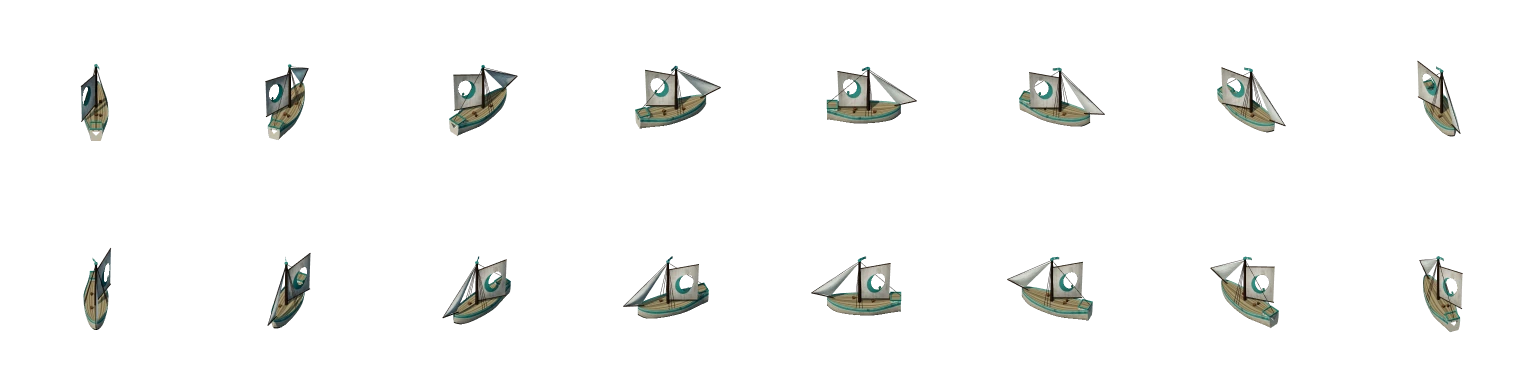
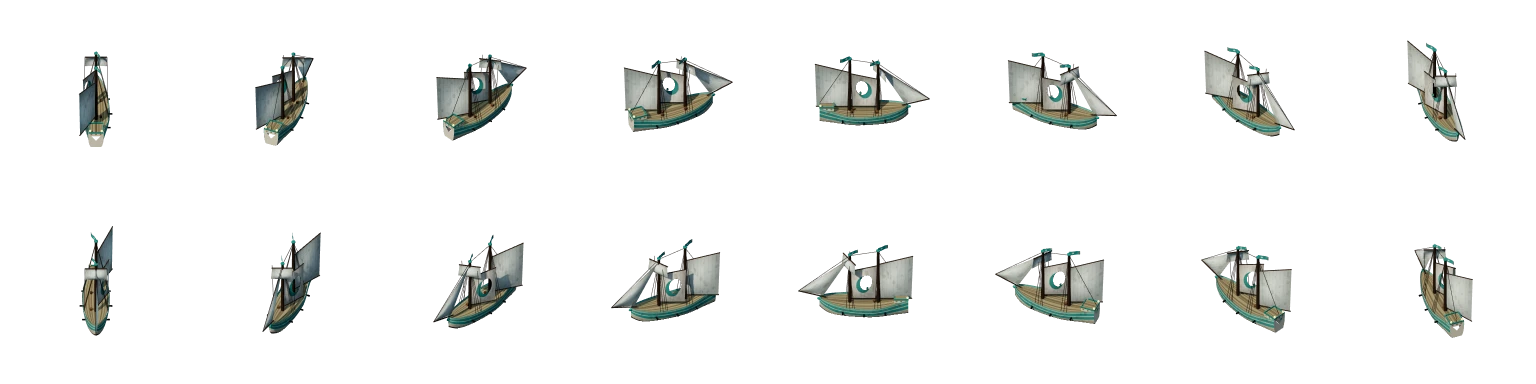
Hafif NPC gemileri uskuna ve karavela olarak yeniden tasarlandı
Sloop tipindeki hafif gemiler iki direkli uskuna, lugger tipindekiler üç
direkli karavela oldu; renkler ve amblemler aynı. 13 gemi sayfası ile portre
atlası yeniden üretildi, kullanılmayan sloop/lugger tipleri ve önizleme işi
kaldırıldı.

Claude-Session: https://claude.ai/code/session_01Mc9BhaSSsCCxzjNzAUDeqJ

diff --git a/tools/asset-studio/catalog.js b/tools/asset-studio/catalog.js
@@ -29,10 +29,6 @@ const F={
 // ---------------------------------------------------------------- Gemi tipleri
 function hullPaint(p,extra={}){return{plank:p.plank,plankDark:p.plankDark,trim:p.trim,tar:p.tar||'#120c09',band:p.band,ports:extra.ports||0,portLid:p.portLid||p.band,portColor:p.portColor||'#140d0a',stripe:extra.stripe?p.band:null};}
 const ARCH={
-  sloop:(p)=>({hull:{L:40,B:13.5,D:8,bowRise:2.6,sternRise:2.8,sternW:.52,bulwark:1,waterline:.72},hp:hullPaint(p,{stripe:true}),
-    masts:[{t:.56,h:30,r:.6,flag:4,gaff:{foot:2.2,throat:24,peak:28,len:16,sail:0,bulge:1.6}}],jib:{sail:1,bulge:1.3,drop:1},bowsprit:9,cargo:3,castles:[{from:0,to:.14,h:1.6,windows:2}],span:104}),
-  lugger:(p)=>({hull:{L:44,B:13,D:8,bowRise:3.2,sternRise:3,sternW:.45,bulwark:1,waterline:.72},hp:hullPaint(p,{stripe:true}),
-    masts:[{t:.66,h:26,r:.6,flag:4,lateen:{len:30,low:5,high:30,sail:0}},{t:.3,h:22,r:.55,flag:0,lateen:{len:24,low:4,high:25,sail:1}}],bowsprit:6,cargo:2,castles:[{from:0,to:.12,h:1.4,windows:2}],span:104}),
   brig:(p)=>({hull:{L:52,B:16.5,D:9.5,bowRise:3,sternRise:4,sternW:.6,bulwark:1.2,waterline:.72},hp:hullPaint(p,{ports:4}),guns:{count:4},
     masts:[{t:.66,h:36,r:.75,flag:5,yards:[{y:33,w:17,drop:12,sail:0,bulge:1.9},{y:20.5,w:20,drop:13,sail:1,bulge:2}]},{t:.33,h:38,r:.8,flag:5,gaff:{foot:2.5,throat:30,peak:35,len:19,sail:2,bulge:1.5}}],
     jib:{sail:2,bulge:1.2,drop:2},bowsprit:11,cargo:4,castles:[{from:0,to:.17,h:2.4,windows:3,lanterns:true}],span:104}),
@@ -80,53 +76,50 @@ function ship(id,arch,p){
 const wood={plank:'#3a2519',plankDark:'#24160f',trim:'#b8904c',band:'#5b2a20'};
 export const SHIPS=[
   // 1 · Zümrüt Sular
-  ship('n1-1-light','sloop',{...wood,sail:'#d8cda6',sail2:'#e2d8b8',emblem:'fish',emblemColor:'#3f6a3a',flag:'#3f6a3a',band:'#3f6a3a',patches:2,patchColors:['#b8a57a','#c9b98e']}),
+  ship('n1-1-light','schooner',{...wood,sail:'#d8cda6',sail2:'#e2d8b8',emblem:'fish',emblemColor:'#3f6a3a',flag:'#3f6a3a',band:'#3f6a3a',patches:2,patchColors:['#b8a57a','#c9b98e']}),
   ship('n1-1-heavy','brig',{...wood,sail:'#d6c9a0',sail2:'#cfc196',stripes:4,stripeColor:'#4f7d4a',emblem:'anchor',emblemColor:'#2e4a2c',flag:'#2e5a36',flagMark:'bar',band:'#35573a',portLid:'#4f7d4a'}),
   // 2 · Mercan
-  ship('n2-1-light','lugger',{...wood,plank:'#4a3024',sail:'#f0b0a0',sail2:'#f4c2b2',emblem:'shell',emblemColor:'#b0453a',flag:'#d0604e',band:'#b0453a'}),
-  ship('n2-2-light','sloop',{...wood,plank:'#e0d8c8',plankDark:'#b8ae9a',trim:'#4fb8b0',band:'#3f9a98',sail:'#f4f2ea',sail2:'#e8f4f2',emblem:'crescent',emblemColor:'#3f9a98',flag:'#3f9a98',flagMark:'dot',flagColor:'#f4f2ea',deck:'#9a8a6a'}),
+  ship('n2-1-light','caravel',{...wood,plank:'#4a3024',sail:'#f0b0a0',sail2:'#f4c2b2',emblem:'shell',emblemColor:'#b0453a',flag:'#d0604e',band:'#b0453a'}),
+  ship('n2-2-light','schooner',{...wood,plank:'#e0d8c8',plankDark:'#b8ae9a',trim:'#4fb8b0',band:'#3f9a98',sail:'#f4f2ea',sail2:'#e8f4f2',emblem:'crescent',emblemColor:'#3f9a98',flag:'#3f9a98',flagMark:'dot',flagColor:'#f4f2ea',deck:'#9a8a6a'}),
   ship('n2-2-heavy','frigate',{plank:'#1f3a3e',plankDark:'#12262a',trim:'#e0b24e',band:'#2f7a7a',portLid:'#3fa8a0',sail:'#bfeee6',sail2:'#d8f4ee',sail3:'#e8f8f4',border:'#e0b24e',emblem:'trident',emblemColor:'#1f6f6a',flag:'#1f6f6a',flagMark:'diamond',flagColor:'#e0b24e',glass:'#bff6ea'}),
   // 3 · Sis
-  ship('n3-1-light','sloop',{plank:'#3d3f3c',plankDark:'#262826',trim:'#8a9a96',band:'#4a5550',sail:'#aab0aa',sail2:'#b8beb8',ragged:18,emblem:'eye',emblemColor:'#3a4440',flag:'#3a4440',flagColor:'#c8d4ce',dirt:.3}),
+  ship('n3-1-light','schooner',{plank:'#3d3f3c',plankDark:'#262826',trim:'#8a9a96',band:'#4a5550',sail:'#aab0aa',sail2:'#b8beb8',ragged:18,emblem:'eye',emblemColor:'#3a4440',flag:'#3a4440',flagColor:'#c8d4ce',dirt:.3}),
   ship('n3-1-heavy','brig',{plank:'#343a36',plankDark:'#1f2421',trim:'#8fa89a',band:'#3a4a42',portLid:'#56695e',sail:'#9aa89c',sail2:'#a8b4aa',sail3:'#b4beb6',ragged:22,patches:3,patchColors:['#7a8a7c','#c0c8c0'],emblem:'spiral',emblemColor:'#2c3833',flag:'#2c3833',flagMark:'bar',flagColor:'#b8c8be',dirt:.3}),
-  ship('n3-2-light','lugger',{plank:'#d8d0bc',plankDark:'#a89e88',trim:'#6a6456',band:'#8a826e',sail:'#e8e2d0',sail2:'#ddd6c2',ragged:30,emblem:'skull',emblemColor:'#3a3428',flag:'#1a1814',flagColor:'#e8e2d0',dirt:.35}),
+  ship('n3-2-light','caravel',{plank:'#d8d0bc',plankDark:'#a89e88',trim:'#6a6456',band:'#8a826e',sail:'#e8e2d0',sail2:'#ddd6c2',ragged:30,emblem:'skull',emblemColor:'#3a3428',flag:'#1a1814',flagColor:'#e8e2d0',dirt:.35}),
   ship('n3-2-heavy','galleon',{plank:'#23302a',plankDark:'#121a16',trim:'#6fd6a8',band:'#1f3a30',portLid:'#2f5a48',portColor:'#6dffc4',sail:'#8ec8ae',sail2:'#9fd8bf',sail3:'#aee2cc',ragged:38,patches:3,patchColors:['#6aa892'],emblem:'skull',emblemColor:'#16302a',flag:'#0e1a17',flagMark:'cross',flagColor:'#8dffd0',glow:'#4dffb0',glass:'#8dffd0',dirt:.35}),
   // 4 · Kızıl
   ship('n4-1-light','brig',{plank:'#2a1a16',plankDark:'#170d0b',trim:'#c8503c',band:'#7a1f1a',portLid:'#a3302a',sail:'#1e1a1a',sail2:'#2a2222',sail3:'#302626',stripes:0,emblem:'skull',emblemColor:'#c83c2c',flag:'#8a1a14',flagMark:'cross',flagColor:'#1a1010',border:'#8a1a14'}),
   ship('n4-1-heavy','frigate',{plank:'#301512',plankDark:'#1a0a08',trim:'#d4a64c',band:'#8a1f1a',portLid:'#b03028',sail:'#9a1f1a',sail2:'#a82a22',sail3:'#b0342a',border:'#1a1010',emblem:'crown',emblemColor:'#1a1010',flag:'#1a1010',flagMark:'diamond',flagColor:'#c83c2c'}),
-  ship('n4-2-light','lugger',{plank:'#4a2e1e',plankDark:'#2a1810',trim:'#a86a3a',band:'#7a4020',sail:'#b0683a',sail2:'#a25e34',patches:4,patchColors:['#7a4a2a','#c8844a','#5a3020'],emblem:'anchor',emblemColor:'#3a1c10',flag:'#5a2a14',flagColor:'#d09058',dirt:.35}),
+  ship('n4-2-light','caravel',{plank:'#4a2e1e',plankDark:'#2a1810',trim:'#a86a3a',band:'#7a4020',sail:'#b0683a',sail2:'#a25e34',patches:4,patchColors:['#7a4a2a','#c8844a','#5a3020'],emblem:'anchor',emblemColor:'#3a1c10',flag:'#5a2a14',flagColor:'#d09058',dirt:.35}),
   ship('n4-2-heavy','junk',{plank:'#231a16',plankDark:'#120c0a',trim:'#b8602c',band:'#5a2a18',portLid:'#8a4020',sail:'#8a3a22',sail2:'#7a3420',sail3:'#6a2e1c',emblem:'sun',emblemColor:'#e0a040',flag:'#1a1210',flagMark:'dot',flagColor:'#e0a040',dirt:.25}),
   // 5 · Buz
-  ship('n5-1-light','sloop',{plank:'#c8d8e4',plankDark:'#9ab0c0',trim:'#4a7aa8',band:'#6a9ac8',sail:'#f0f6fa',sail2:'#e4eef6',emblem:'snow',emblemColor:'#4a7aa8',flag:'#4a7aa8',flagColor:'#f0f6fa',deck:'#b8c4cc',deckDark:'#8a98a4'}),
+  ship('n5-1-light','schooner',{plank:'#c8d8e4',plankDark:'#9ab0c0',trim:'#4a7aa8',band:'#6a9ac8',sail:'#f0f6fa',sail2:'#e4eef6',emblem:'snow',emblemColor:'#4a7aa8',flag:'#4a7aa8',flagColor:'#f0f6fa',deck:'#b8c4cc',deckDark:'#8a98a4'}),
   ship('n5-1-heavy','brig',{plank:'#2a3a4c',plankDark:'#16222e',trim:'#bfe6ff',band:'#4a7aa8',portLid:'#6a9ac8',sail:'#dceaf4',sail2:'#cfe2f0',sail3:'#c4dcee',hstripes:6,stripeColor:'#7aaad0',emblem:'snow',emblemColor:'#2a4a6a',flag:'#2a4a6a',flagMark:'diamond',flagColor:'#bfe6ff',glass:'#bfe6ff'}),
-  ship('n5-2-light','lugger',{plank:'#9ac0d8',plankDark:'#6a90aa',trim:'#e8f6ff',band:'#5a8ab0',sail:'#bfe6ff',sail2:'#a8dcf8',emblem:'drop',emblemColor:'#2a5a80',flag:'#5a8ab0',flagColor:'#e8f6ff',glow:'#7fd0ff',glass:'#bfe6ff'}),
+  ship('n5-2-light','caravel',{plank:'#9ac0d8',plankDark:'#6a90aa',trim:'#e8f6ff',band:'#5a8ab0',sail:'#bfe6ff',sail2:'#a8dcf8',emblem:'drop',emblemColor:'#2a5a80',flag:'#5a8ab0',flagColor:'#e8f6ff',glow:'#7fd0ff',glass:'#bfe6ff'}),
   ship('n5-2-heavy','galleon',{plank:'#e4ecf2',plankDark:'#b8c6d2',trim:'#9ab8d0',band:'#3a5a7a',portLid:'#5a7a9a',sail:'#f4f8fb',sail2:'#e8f0f6',sail3:'#dce8f2',border:'#9ab8d0',emblem:'crown',emblemColor:'#5a7a9a',flag:'#3a5a7a',flagMark:'cross',flagColor:'#e4ecf2',deck:'#c0ccd4',deckDark:'#909ea8',glass:'#bfe6ff'}),
   // 6 · Zehir
-  ship('n6-1-light','sloop',{plank:'#3a3a22',plankDark:'#222212',trim:'#8aa83a',band:'#4a5a22',sail:'#8a9a5a',sail2:'#9aa866',patches:3,patchColors:['#6a7a3a','#b0b870'],emblem:'drop',emblemColor:'#2a3a12',flag:'#4a5a22',flagColor:'#c8e070',dirt:.35}),
+  ship('n6-1-light','schooner',{plank:'#3a3a22',plankDark:'#222212',trim:'#8aa83a',band:'#4a5a22',sail:'#8a9a5a',sail2:'#9aa866',patches:3,patchColors:['#6a7a3a','#b0b870'],emblem:'drop',emblemColor:'#2a3a12',flag:'#4a5a22',flagColor:'#c8e070',dirt:.35}),
   ship('n6-1-heavy','brig',{plank:'#1a2216',plankDark:'#0c120a',trim:'#9aff5a',band:'#2a4a1a',portLid:'#3a6a22',portColor:'#9aff5a',sail:'#2a3a22',sail2:'#34462a',sail3:'#3e5232',emblem:'skull',emblemColor:'#9aff5a',flag:'#1a2216',flagMark:'cross',flagColor:'#9aff5a',glow:'#6aff3a',glass:'#b0ff70'}),
-  ship('n6-2-light','lugger',{plank:'#4a4030',plankDark:'#2a2418',trim:'#8a8a4a',band:'#5a5a2a',sail:'#a8a070',sail2:'#9a9262',ragged:28,patches:4,patchColors:['#6a6a3a','#8a7a4a','#c0b880'],emblem:'spiral',emblemColor:'#3a3a1a',flag:'#5a5a2a',flagColor:'#d0d080',dirt:.45}),
+  ship('n6-2-light','caravel',{plank:'#4a4030',plankDark:'#2a2418',trim:'#8a8a4a',band:'#5a5a2a',sail:'#a8a070',sail2:'#9a9262',ragged:28,patches:4,patchColors:['#6a6a3a','#8a7a4a','#c0b880'],emblem:'spiral',emblemColor:'#3a3a1a',flag:'#5a5a2a',flagColor:'#d0d080',dirt:.45}),
   ship('n6-2-heavy','galleon',{plank:'#2e3018',plankDark:'#181a0c',trim:'#c8c04a',band:'#4a4a1a',portLid:'#6a6a22',sail:'#c8c46a',sail2:'#bab45e',sail3:'#aca652',ragged:20,patches:3,patchColors:['#8a8a3a','#dada8a'],emblem:'skull',emblemColor:'#2e3018',flag:'#c8c04a',flagMark:'dot',flagColor:'#2e3018',dirt:.4}),
   // 7 · Alev
   ship('n7-1-light','brig',{plank:'#1c1816',plankDark:'#0c0a08',trim:'#ff8a2a',band:'#3a1a10',portLid:'#6a2a14',portColor:'#ff8a2a',sail:'#3a3432',sail2:'#443c38',sail3:'#4e4440',ragged:14,emblem:'flame',emblemColor:'#ff7a1a',flag:'#1c1816',flagMark:'bar',flagColor:'#ff7a1a',glow:'#ff5a10',glass:'#ffb060'}),
   ship('n7-1-heavy','frigate',{plank:'#141010',plankDark:'#080606',trim:'#ffb040',band:'#5a1a0a',portLid:'#a0300a',portColor:'#ffa040',sail:'#c8481a',sail2:'#d0561e',sail3:'#d86424',border:'#1a1010',emblem:'flame',emblemColor:'#ffd070',flag:'#1a1010',flagMark:'diamond',flagColor:'#ff8a2a',glow:'#ff6a1a',glass:'#ffb060'}),
-  ship('n7-2-light','lugger',{plank:'#2a1a12',plankDark:'#140c08',trim:'#ffa040',band:'#7a2a0a',sail:'#ff9a3a',sail2:'#ff8a2a',emblem:'flame',emblemColor:'#7a1a0a',flag:'#7a2a0a',flagColor:'#ffd070',glow:'#ff7a1a'}),
+  ship('n7-2-light','caravel',{plank:'#2a1a12',plankDark:'#140c08',trim:'#ffa040',band:'#7a2a0a',sail:'#ff9a3a',sail2:'#ff8a2a',emblem:'flame',emblemColor:'#7a1a0a',flag:'#7a2a0a',flagColor:'#ffd070',glow:'#ff7a1a'}),
   ship('n7-2-heavy','junk',{plank:'#120c0a',plankDark:'#060404',trim:'#ff6a1a',band:'#3a0e06',portLid:'#7a1a0a',portColor:'#ff6a1a',sail:'#5a140a',sail2:'#4a1008',sail3:'#3a0c06',emblem:'sun',emblemColor:'#ff8a2a',flag:'#120c0a',flagMark:'cross',flagColor:'#ff6a1a',glow:'#ff3a0a',glass:'#ff8a3a'}),
   // 8 · Fırtına
-  ship('n8-1-light','sloop',{plank:'#2a2e36',plankDark:'#16181e',trim:'#e0c040',band:'#3a4050',sail:'#5a606e',sail2:'#666c7a',emblem:'bolt',emblemColor:'#f0d040',flag:'#2a2e36',flagMark:'bar',flagColor:'#f0d040'}),
+  ship('n8-1-light','schooner',{plank:'#2a2e36',plankDark:'#16181e',trim:'#e0c040',band:'#3a4050',sail:'#5a606e',sail2:'#666c7a',emblem:'bolt',emblemColor:'#f0d040',flag:'#2a2e36',flagMark:'bar',flagColor:'#f0d040'}),
   ship('n8-1-heavy','frigate',{plank:'#1a2030',plankDark:'#0c1018',trim:'#f0d040',band:'#243050',portLid:'#34426a',sail:'#2a3450',sail2:'#323e5c',sail3:'#3a4868',border:'#f0d040',emblem:'bolt',emblemColor:'#f0d040',flag:'#1a2030',flagMark:'diamond',flagColor:'#f0d040',glow:'#6a8aff',glass:'#bfd0ff'}),
   ship('n8-2-light','brig',{plank:'#30343c',plankDark:'#1a1c22',trim:'#a0aac0',band:'#44485a',portLid:'#5a6078',sail:'#8a92a4',sail2:'#9aa2b2',sail3:'#a8b0c0',hstripes:4,stripeColor:'#5a6278',emblem:'spiral',emblemColor:'#2a2e3a',flag:'#44485a',flagMark:'cross',flagColor:'#d0d8e8'}),
   ship('n8-2-heavy','galleon',{plank:'#141a2a',plankDark:'#0a0e18',trim:'#e0b24e',band:'#1a2a50',portLid:'#2a3a6a',sail:'#1e2a4a',sail2:'#243258',sail3:'#2a3a64',border:'#e0b24e',emblem:'bolt',emblemColor:'#e0b24e',flag:'#e0b24e',flagMark:'dot',flagColor:'#1a2a50',glow:'#4a6aff',glass:'#ffd070'}),
   // 9 · Derinlik
-  ship('n9-1-light','lugger',{plank:'#1a1422',plankDark:'#0c0812',trim:'#b070ff',band:'#2a1a40',sail:'#3a2a5a',sail2:'#342650',emblem:'crescent',emblemColor:'#c890ff',flag:'#1a1422',flagColor:'#c890ff',glow:'#9a4aff',glass:'#d0a0ff'}),
+  ship('n9-1-light','caravel',{plank:'#1a1422',plankDark:'#0c0812',trim:'#b070ff',band:'#2a1a40',sail:'#3a2a5a',sail2:'#342650',emblem:'crescent',emblemColor:'#c890ff',flag:'#1a1422',flagColor:'#c890ff',glow:'#9a4aff',glass:'#d0a0ff'}),
   ship('n9-1-heavy','junk',{plank:'#140e1c',plankDark:'#08060e',trim:'#c890ff',band:'#2a1440',portLid:'#4a2270',portColor:'#c890ff',sail:'#2a1840',sail2:'#241438',sail3:'#1e1030',emblem:'eye',emblemColor:'#d8a8ff',flag:'#140e1c',flagMark:'diamond',flagColor:'#c890ff',glow:'#8a3aff',glass:'#d0a0ff'}),
   ship('n9-2-light','frigate',{plank:'#101014',plankDark:'#060608',trim:'#c0c0c8',band:'#1a1a22',portLid:'#2a2a34',sail:'#18181e',sail2:'#202028',sail3:'#282830',border:'#6a6a78',emblem:'skull',emblemColor:'#c0c0c8',flag:'#101014',flagMark:'cross',flagColor:'#c0c0c8'}),
   ship('n9-2-heavy','galleon',{plank:'#0c0a0e',plankDark:'#040306',trim:'#f0c04a',band:'#1a1020',portLid:'#3a2240',portColor:'#f0c04a',sail:'#14101a',sail2:'#1a1422',sail3:'#201a2a',border:'#f0c04a',emblem:'crown',emblemColor:'#f0c04a',flag:'#0c0a0e',flagMark:'diamond',flagColor:'#f0c04a',glow:'#7a3aff',glass:'#ffd070'}),
 ];
 
 // ---------------------------------------------------------------- Canavarlar (tür + palet)
-// Hafif gemilerin gelişmiş sürümleri (id: <npc>-v2). sloop → uskuna, lugger → karavela; renkler aynı.
-const LIGHT_UP={sloop:'schooner',lugger:'caravel'};
-export const LIGHT_V2=SHIPS.filter(x=>x.id.endsWith('-light')&&LIGHT_UP[x.arch]).map(x=>ship(`${x.id}-v2`,LIGHT_UP[x.arch],x.pal));
 // ---------------------------------------------------------------- Harita bossları
 // Her haritanın bossu, o haritanın en güçlü NPC'sinin (ağır) renklerini taşır; altın süsleme ve amiral sancağıyla büyütülür.
 // Eski görselli iki ağır NPC (Yağmacılar, Kızıl Savaş Gemisi) katalogda olmadığı için paletleri burada.

diff --git a/tools/asset-studio/studio.html b/tools/asset-studio/studio.html
@@ -11,8 +11,8 @@ import {paintWorldScroll} from './ui-paint.js';
 import {buildIcon} from './icons.js';
 import {buildMedal} from './medals.js';
 import {buildEquip,buildPowderKeg,buildTreasureMap,buildInventoryPlaque} from './items3d.js';
-import {SHIPS,MONSTERS,BOSSES,LIGHT_V2} from './catalog.js';
-const ALL_SHIPS=[...SHIPS,...BOSSES,...LIGHT_V2];
+import {SHIPS,MONSTERS,BOSSES} from './catalog.js';
+const ALL_SHIPS=[...SHIPS,...BOSSES];
 import {buildCrab,buildSerpent,buildJelly,buildTurtle,buildHydra} from './monsters.js';
 import * as T from './textures.js';
 import {RoomEnvironment} from 'three/addons/environments/RoomEnvironment.js';
